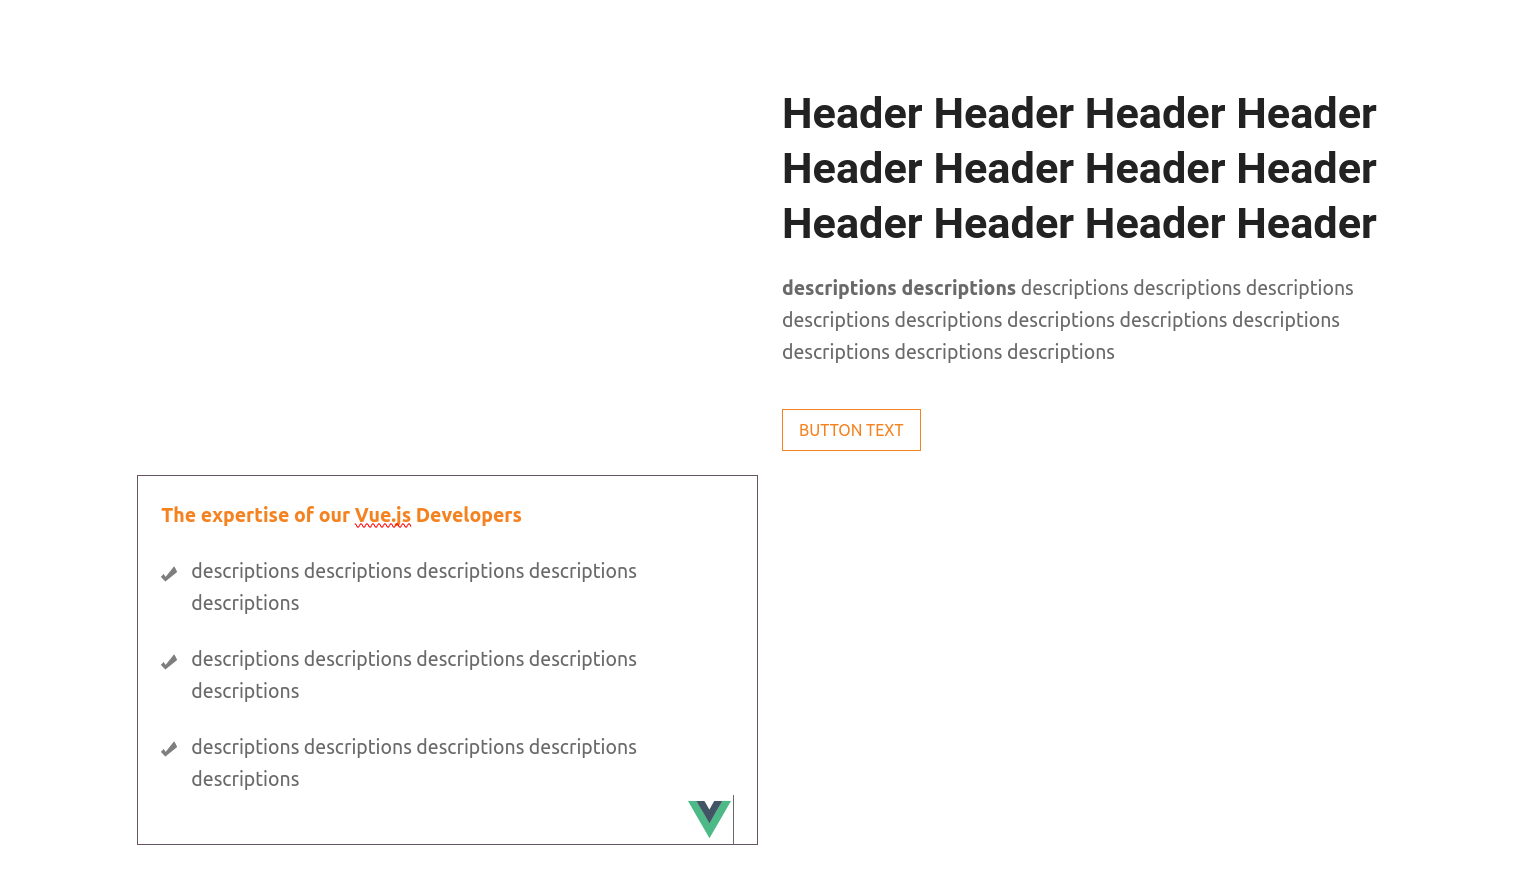
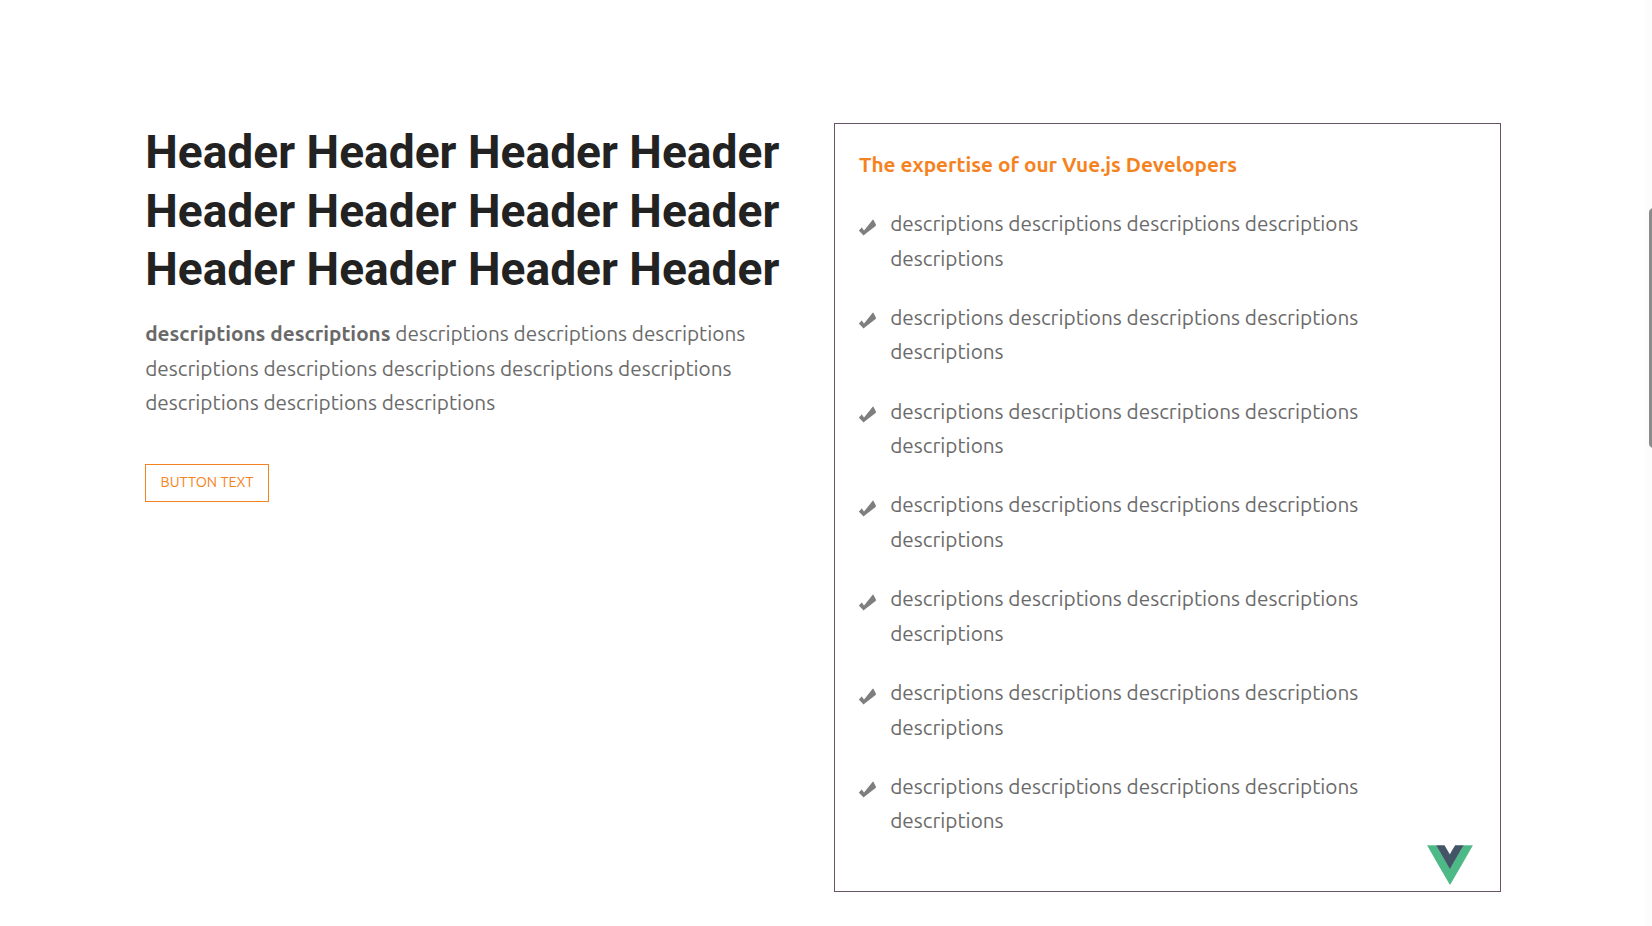
added service_list_bg_gray snippet

diff --git a/custom_addons/automated_seo/__manifest__.py b/custom_addons/automated_seo/__manifest__.py
@@ -94,6 +94,7 @@
         "views/snippets/services/s_service_tab_bg_gray.xml",
         "views/snippets/services/s_service_sub_tab_gray.xml",
         "views/snippets/services/s_service_list_bg_white.xml",
+        "views/snippets/services/s_service_list_bg_gray.xml",
         "views/snippets/cards/s_card_with_icon_bg_gray.xml",
         "views/snippets/cards/s_card_with_icon_bg_white.xml",
         "views/snippets/cards/s_sub_card_with_icon_gray.xml",
